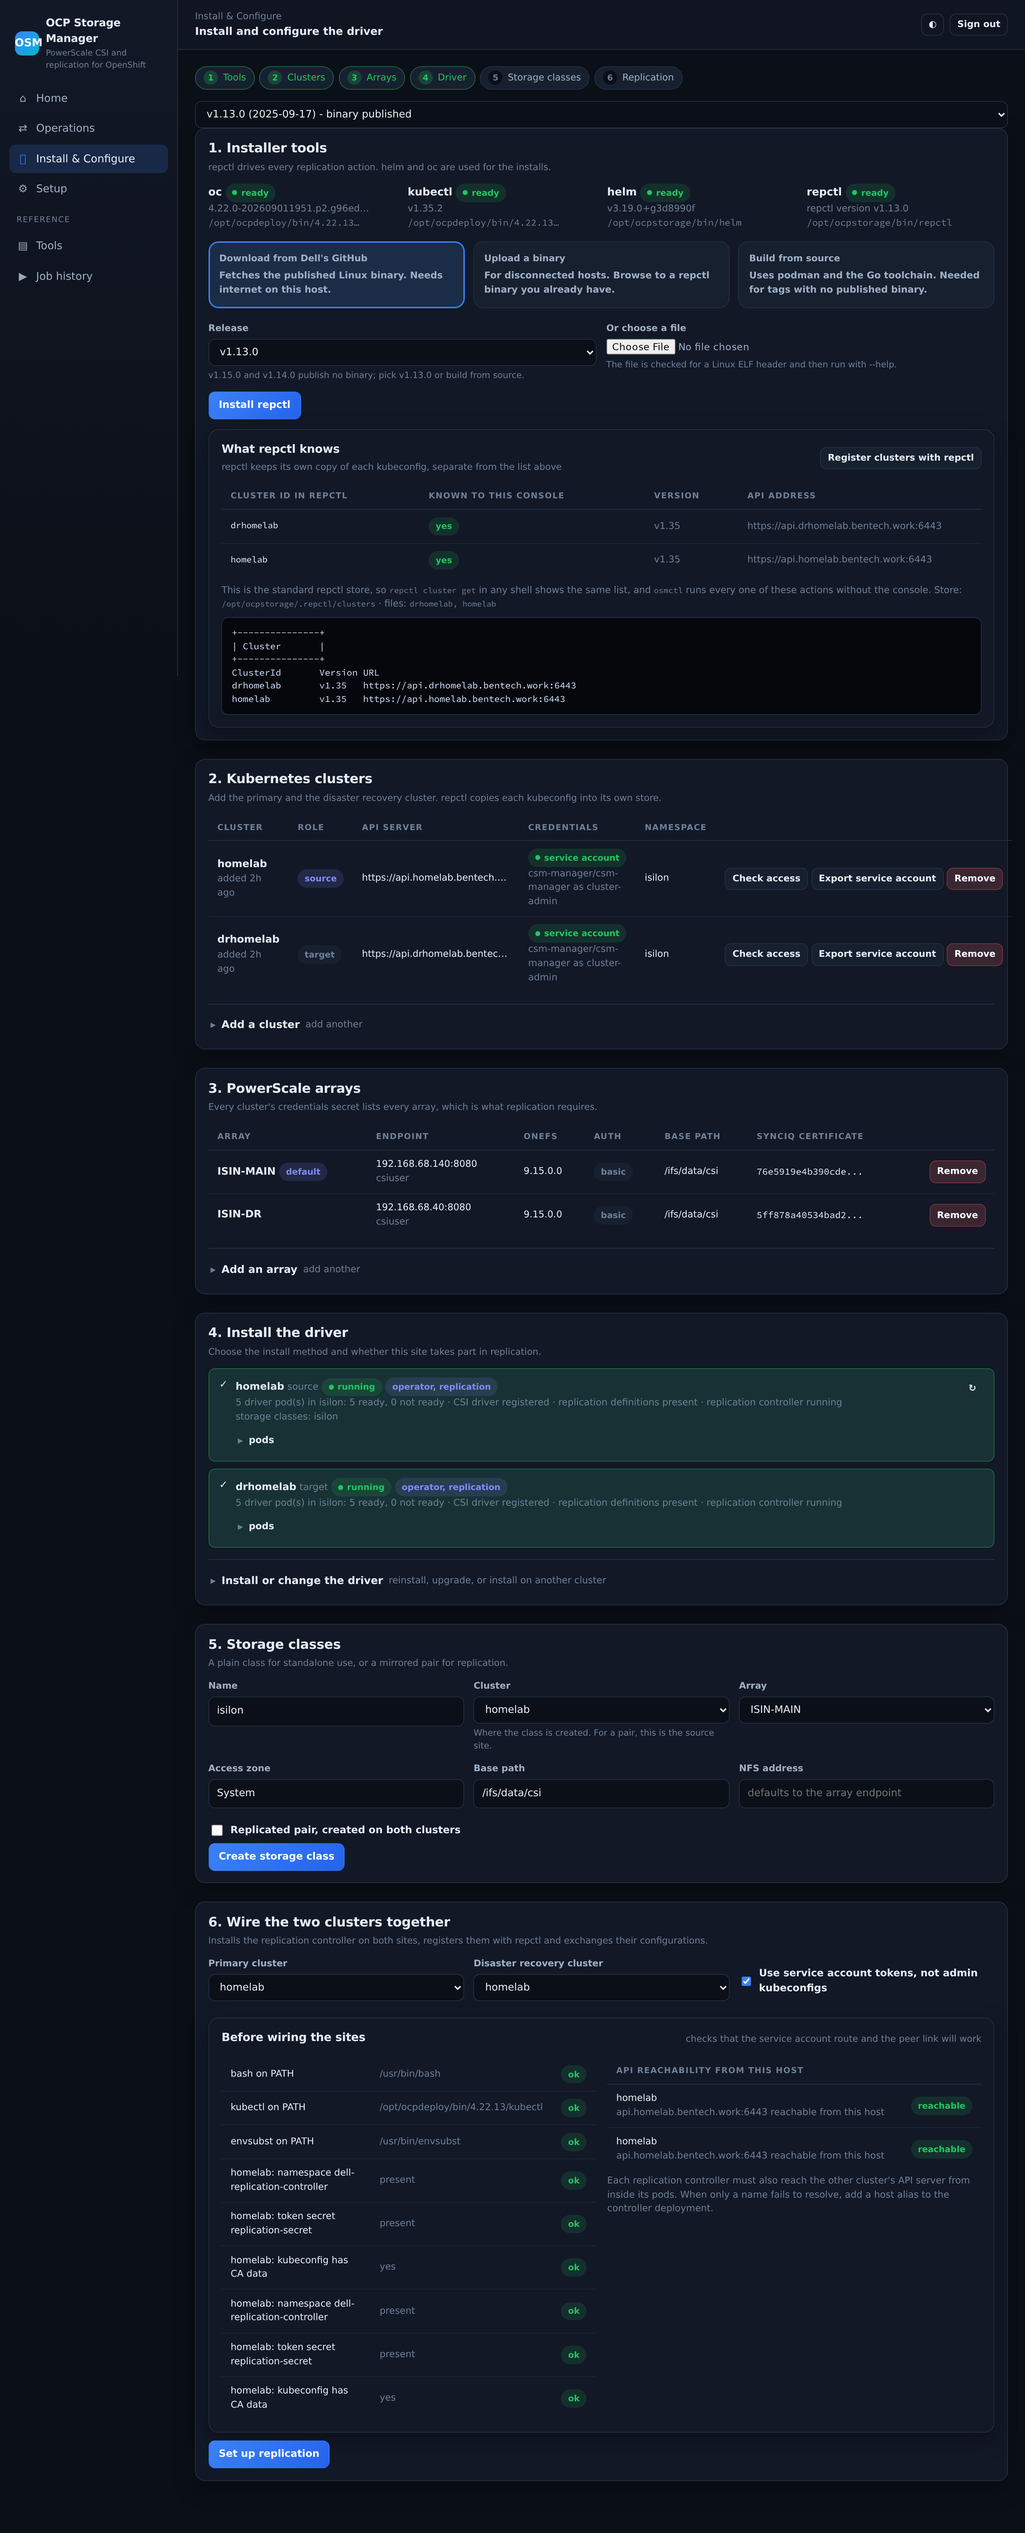
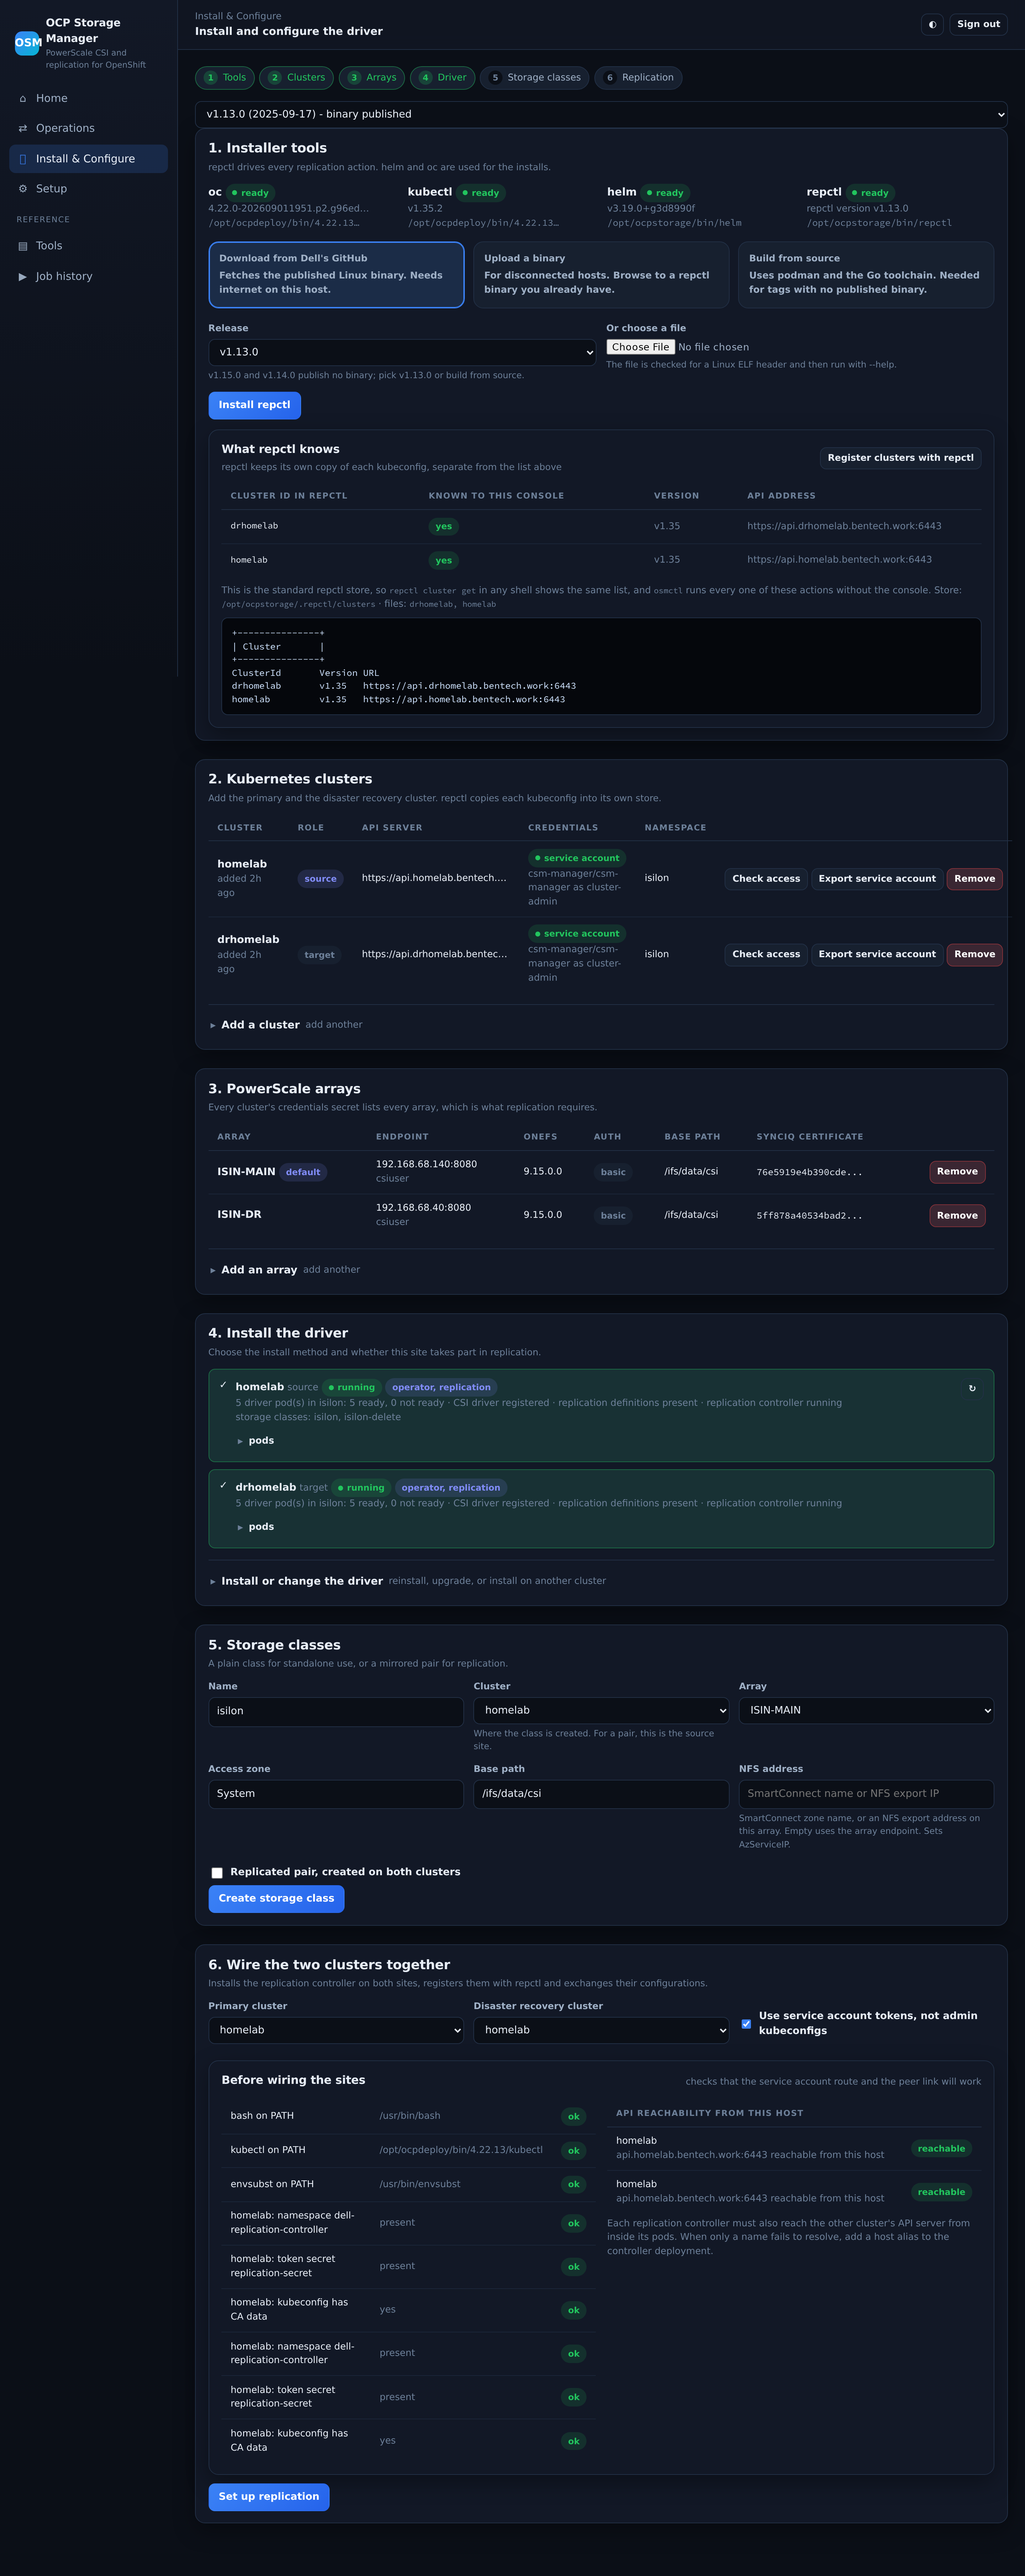
Storage classes: say what the NFS addresses take
Both NFS fields carry a tooltip and a hint naming what goes in them, a SmartConnect
zone name or an export address, and which storage class parameter they set.

diff --git a/app/app/templates/install.html b/app/app/templates/install.html
@@ -322,7 +322,12 @@
       <div class="row three">
         <div class="field"><label>Access zone</label><input type="text" name="access_zone" value="System"></div>
         <div class="field"><label>Base path</label><input type="text" name="isi_path" value="/ifs/data/csi"></div>
-        <div class="field"><label>NFS address</label><input type="text" name="az_service_ip" placeholder="defaults to the array endpoint"></div>
+        <div class="field">
+          <label title="The address cluster nodes mount from: a SmartConnect zone name, or an IP that serves NFS on this array">NFS address</label>
+          <input type="text" name="az_service_ip" placeholder="SmartConnect name or NFS export IP"
+                 title="The address cluster nodes mount from: a SmartConnect zone name, or an IP that serves NFS on this array">
+          <div class="hint">SmartConnect zone name, or an NFS export address on this array.
+            Empty uses the array endpoint. Sets AzServiceIP.</div></div>
       </div>
       <div class="check"><input type="checkbox" id="rep" name="replicated">
         <label for="rep">Replicated pair, created on both clusters</label></div>
@@ -344,7 +349,13 @@
         <div class="row three">
           <div class="field"><label>Volume group prefix</label><input type="text" name="volume_group_prefix" value="csi-prod">
             <div class="hint">Prefix, namespace, address and objective must stay under 63 characters.</div></div>
-          <div class="field"><label>Target NFS address</label><input type="text" name="target_az_service_ip" placeholder="defaults to the target array endpoint"></div>
+          <div class="field">
+            <label title="The same thing at the other site: the remote array's SmartConnect name or NFS export IP">Target NFS address</label>
+            <input type="text" name="target_az_service_ip" placeholder="remote SmartConnect name or NFS export IP"
+                   title="The same thing at the other site: the remote array's SmartConnect name or NFS export IP">
+            <div class="hint">The remote array's SmartConnect name or NFS export address, which the
+              disaster recovery cluster's nodes mount after a failover. Empty uses the remote array's
+              endpoint. Sets remoteAzServiceIP.</div></div>
           <div class="field">
             <label>Grouping</label>
             <div class="check"><input type="checkbox" id="ignorens" name="ignore_namespaces">
